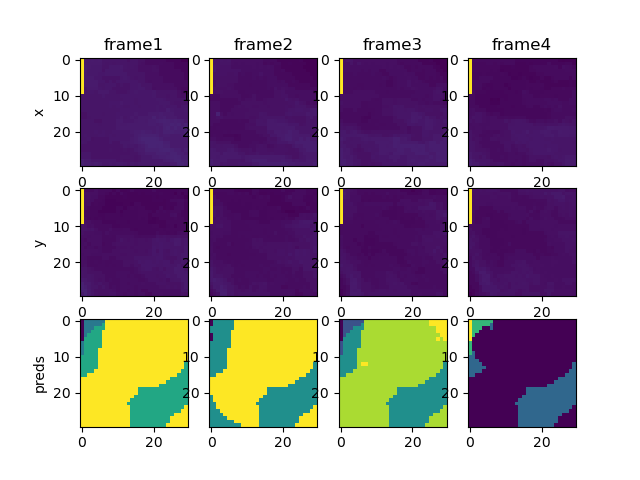
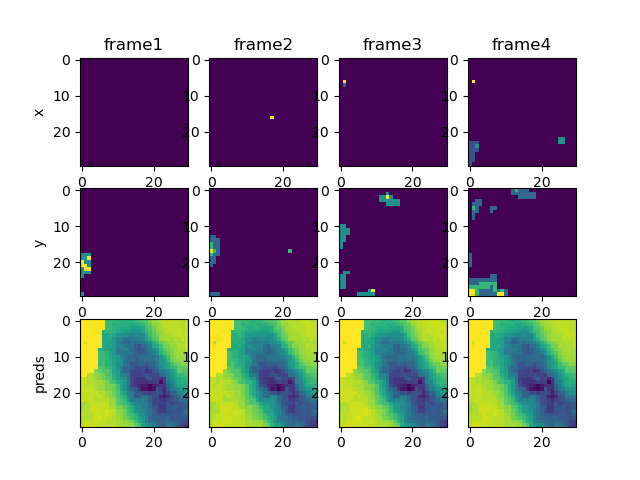
improvements

diff --git a/train.py b/train.py
@@ -60,37 +60,44 @@ def visualize_predictions(
     preprocessed_folder: str = "",
     dataset="kmni",
 ):
-    device = t.device("cuda" if t.cuda.is_available() else "cpu")
-    loader, _, _ = get_loaders(
-        train_batch_size=2,
-        test_batch_size=2,
-        preprocessed_folder=preprocessed_folder,
-        device=device,
-        downsample_size=downsample_size,
-        dataset=dataset,
-    )
-    model = model.to(device)
-    N_COLS = 4  # frames
-    N_ROWS = 3  # x, y, preds
-    _fig, ax = plt.subplots(nrows=N_ROWS, ncols=N_COLS)
-    for x, y in loader:
-        # x, y = x[:number_of_preds], y[:number_of_preds]
-        preds = model(x)
-        to_plot = [x[0], y[0], preds[0]]
-        for i, row in enumerate(ax):
-            for j, col in enumerate(row):
-                col.imshow(to_plot[i].cpu().detach().numpy()[:, :, j, 1])
+    with t.no_grad():
+        device = t.device("cuda" if t.cuda.is_available() else "cpu")
+        loader, _, _ = get_loaders(
+            train_batch_size=2,
+            test_batch_size=2,
+            preprocessed_folder=preprocessed_folder,
+            device=device,
+            downsample_size=downsample_size,
+            dataset=dataset,
+        )
+        model.eval()
+        N_COLS = 4  # frames
+        N_ROWS = 3  # x, y, preds
+        _fig, ax = plt.subplots(nrows=N_ROWS, ncols=N_COLS)
+        for x, y in loader:
+            # x, y = x[:number_of_preds], y[:number_of_preds]
+            for k in range(len(x)):
+                raininess = t.sum(x[k] != 0) / t.prod(t.tensor(x[k].shape))
+                if raininess >= 0.5:
+                    preds = model(x)
+                    to_plot = [x[k], y[k], preds[k]]
+                    for i, row in enumerate(ax):
+                        for j, col in enumerate(row):
+                            col.imshow(
+                                to_plot[i].cpu().detach().numpy()[:, :, j, 1]
+                            )
 
-        row_labels = ["x", "y", "preds"]
-        for ax_, row in zip(ax[:, 0], row_labels):
-            ax_.set_ylabel(row)
+                    row_labels = ["x", "y", "preds"]
+                    for ax_, row in zip(ax[:, 0], row_labels):
+                        ax_.set_ylabel(row)
 
-        col_labels = ["frame1", "frame2", "frame3", "frame4"]
-        for ax_, col in zip(ax[0, :], col_labels):
-            ax_.set_title(col)
+                    col_labels = ["frame1", "frame2", "frame3", "frame4"]
+                    for ax_, col in zip(ax[0, :], col_labels):
+                        ax_.set_title(col)
 
-        plt.savefig(os.path.join(path, name))
-        break
+                    plt.savefig(os.path.join(path, name))
+                    model.train()
+                    return
 
 
 def train_single_epoch(

diff --git a/preprocessing/kmni_dataset/__main__.py b/preprocessing/kmni_dataset/__main__.py
@@ -72,6 +72,7 @@ def preprocess(
                 raininess = 1 - t.sum(content == 0) / t.prod(
                     t.tensor(content.shape)
                 )
+                ipdb.set_trace()
                 if raininess >= rain_threshold:
                     acc.append(content)
                 elif len(acc) >= 8:
